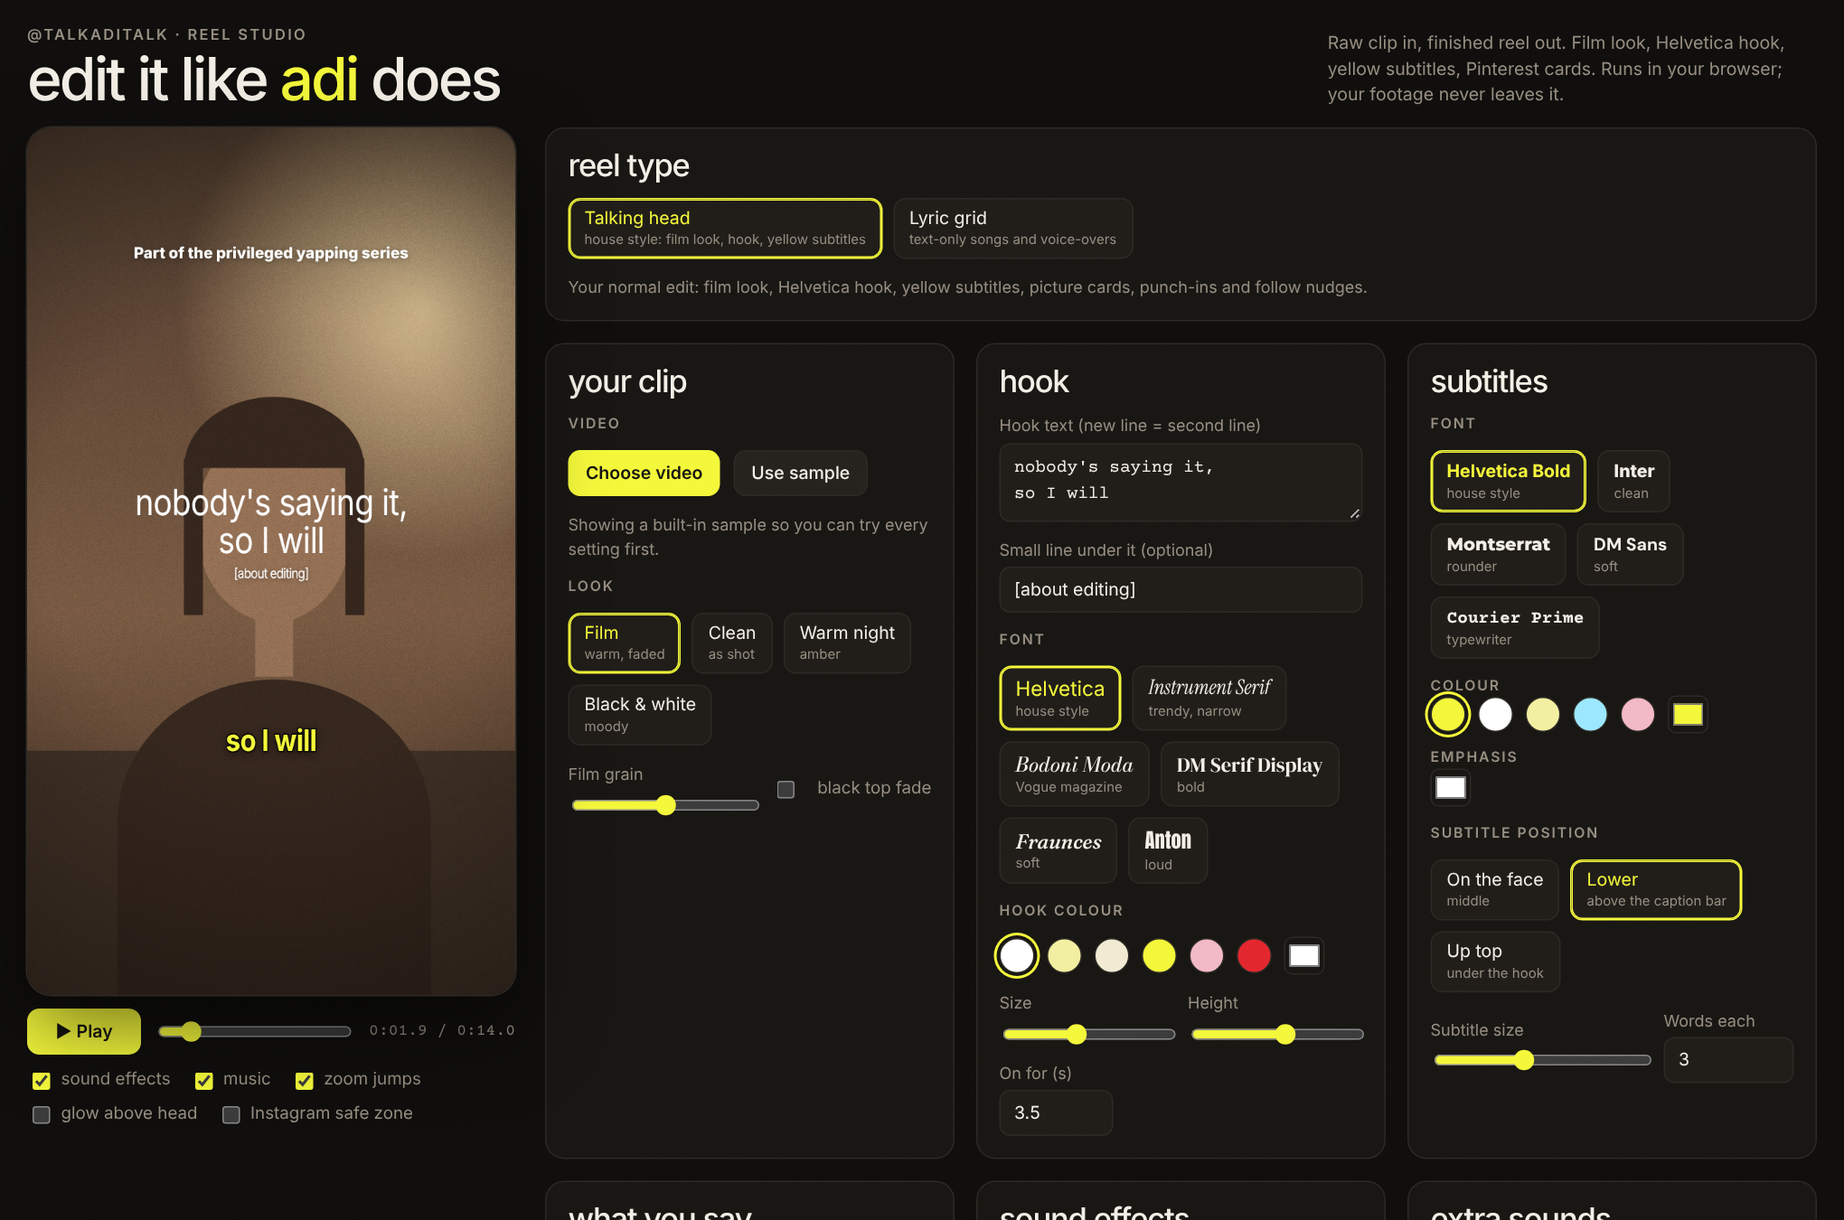
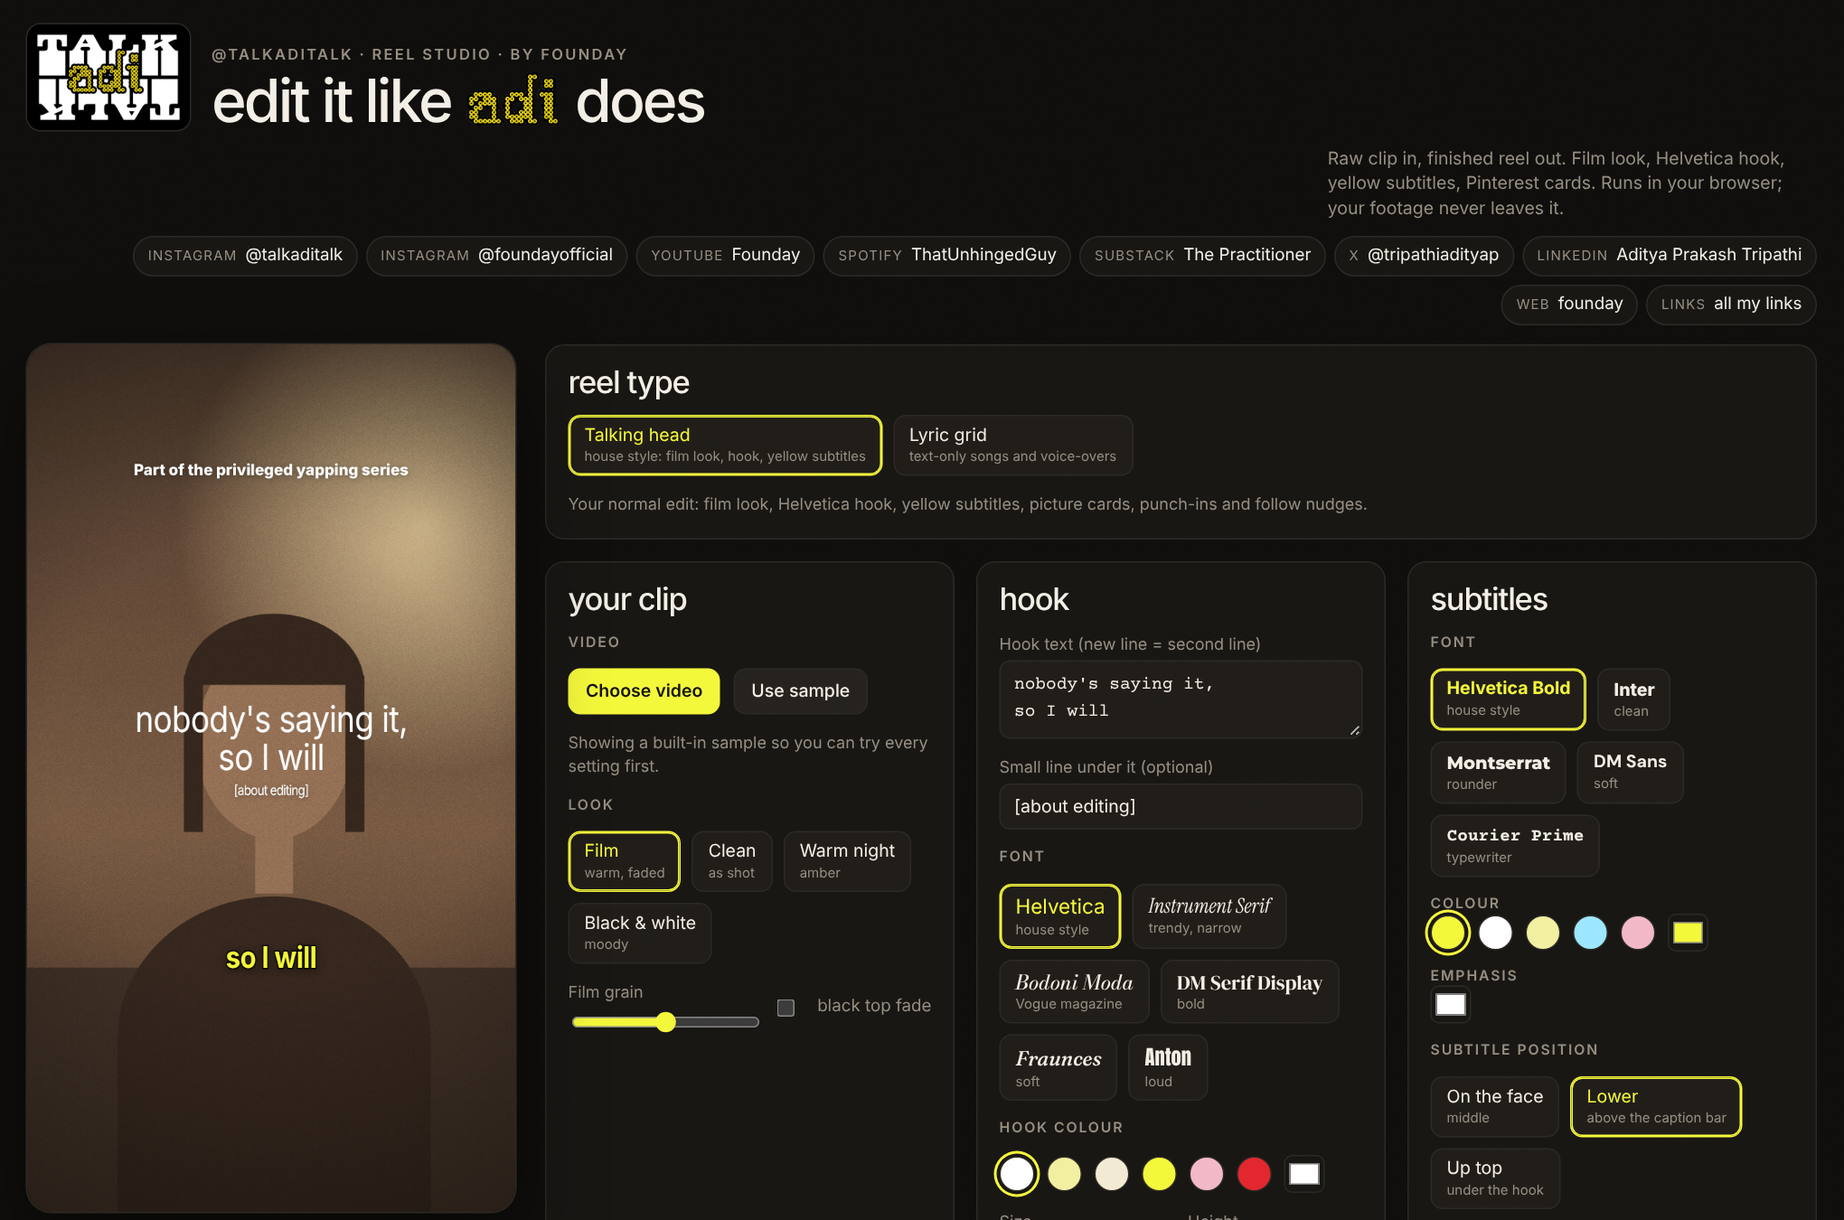
Add Founday and talkaditalk brand kit, handles and links
- talk adi talk logo and handle links in the header, dotted adi mark in
  the headline
- My logos row to drop talkaditalk, adi, Founday, ThatUnhingedGuy and
  The Practitioner logos into a reel; optional handle watermark
- Founday footer with show logos and every link; tag prompt on export
- Share preview tags and favicon; README brand kit and follow section

Claude-Session: https://claude.ai/code/session_01YSztzySygF1Q2ZiUH28WtS

diff --git a/index.html b/index.html
@@ -4,6 +4,14 @@
 <meta charset="utf-8">
 <meta name="viewport" content="width=device-width,initial-scale=1,viewport-fit=cover">
 <title>talkaditalk Reel Studio</title>
+<meta name="description" content="Edit Instagram reels in your browser in the @talkaditalk style: film look, Helvetica hook, yellow subtitles, lyric grids, Pinterest cards. By Founday.">
+<meta property="og:title" content="talkaditalk Reel Studio">
+<meta property="og:description" content="Raw clip in, finished reel out. Edit reels in your browser in the @talkaditalk style. By Founday.">
+<meta property="og:image" content="https://tripathiadityap.github.io/claudevideoeditor/docs/reel-talking-head.png">
+<meta property="og:url" content="https://tripathiadityap.github.io/claudevideoeditor/">
+<meta name="twitter:card" content="summary_large_image">
+<meta name="twitter:creator" content="@tripathiadityap">
+<link rel="icon" href="assets/talkaditalk-mark.png">
 <meta name="claude:viewport-fit-sides" content="cover">
 <link rel="preconnect" href="https://fonts.googleapis.com">
 <link rel="preconnect" href="https://fonts.gstatic.com" crossorigin>
@@ -30,6 +38,7 @@ body::after{content:"";position:fixed;inset:0;pointer-events:none;z-index:50;opa
 header{display:flex;align-items:flex-end;justify-content:space-between;gap:12px;flex-wrap:wrap;max-width:1320px;margin:0 auto 14px}
 header h1{font:500 44px/0.95 var(--display);margin:0;letter-spacing:-.045em;text-transform:lowercase}
 header h1 em{font-style:normal;color:var(--lemon)}
+header h1 img.adi{height:.92em;width:auto;vertical-align:-0.08em;margin:0 .04em}
 .eyebrow{font:600 11px var(--body);letter-spacing:.14em;text-transform:uppercase;color:var(--muted);margin:0 0 6px}
 .eyebrow a{color:inherit;text-decoration:none}
 .eyebrow a:hover{color:var(--lemon)}
@@ -100,6 +109,26 @@ textarea{font:13px/1.5 var(--mono);resize:vertical;min-height:90px}
 .out video{width:100%;max-width:260px;border-radius:10px;display:block}
 .status{font-size:12.5px;min-height:18px}
 .tapbig{font-size:16px;padding:14px;width:100%}
+.brandrow{display:flex;align-items:flex-end;gap:16px}
+.brandrow .mark img{display:block;width:120px;height:auto;border-radius:10px;box-shadow:0 0 0 1px var(--line)}
+.hside{display:flex;flex-direction:column;gap:10px;align-items:flex-end;min-width:0}
+.handles{display:flex;flex-wrap:wrap;gap:6px;justify-content:flex-end}
+.handles a{display:inline-flex;align-items:baseline;gap:6px;padding:5px 10px;border:1px solid var(--line);border-radius:999px;color:var(--ink);text-decoration:none;font-size:12.5px;background:var(--card)}
+.handles a small{color:var(--muted);font-size:10px;letter-spacing:.08em;text-transform:uppercase}
+.handles a:hover{border-color:var(--lemon);color:var(--lemon)}
+.fbrand{display:flex;align-items:center;gap:14px;flex-wrap:wrap}
+.fbrand img{display:block;height:34px;width:auto}
+.shows{display:flex;align-items:center;gap:18px;flex-wrap:wrap}
+.shows img{display:block;height:26px;width:auto}
+.shows .prac{display:inline-flex;align-items:center;gap:8px;color:var(--ink)}
+.shows .prac img{height:30px;border-radius:6px}
+footer.brand .made{flex-basis:100%;margin:0}
+footer.brand .made a{color:var(--lemon)}
+.logos{display:flex;gap:10px;flex-wrap:wrap}
+.logos button{background:var(--card-2);border:1px solid var(--line);border-radius:10px;padding:8px 12px;cursor:pointer;display:flex;align-items:center;justify-content:center;height:58px}
+.logos button:hover{border-color:var(--lemon)}
+.logos img{max-height:40px;max-width:150px;display:block}
+@media (max-width:760px){.hside{align-items:flex-start}.handles{justify-content:flex-start}.brandrow .mark img{width:84px}}
 footer.brand{max-width:1320px;margin:34px auto 0;padding-top:18px;border-top:1px solid var(--line);display:flex;flex-wrap:wrap;gap:10px 28px;justify-content:space-between;align-items:baseline;color:var(--muted);font-size:12.5px}
 footer.brand b{color:var(--ink);font-weight:500;letter-spacing:-.02em;font-size:15px}
 footer.brand nav{display:flex;flex-wrap:wrap;gap:6px 16px}
@@ -111,11 +140,27 @@ footer.brand a:hover{color:var(--lemon)}
 </head>
 <body>
 <header>
-  <div>
-    <p class="eyebrow"><a href="https://www.instagram.com/talkaditalk/" target="_blank" rel="noopener">@talkaditalk</a> · reel studio</p>
-    <h1>edit it like <em>adi</em> does</h1>
+  <div class="brandrow">
+    <a href="https://www.instagram.com/talkaditalk/" target="_blank" rel="noopener" class="mark"><img src="assets/talkaditalk-mark.png" alt="talk adi talk logo" width="120" height="78"></a>
+    <div>
+      <p class="eyebrow"><a href="https://www.instagram.com/talkaditalk/" target="_blank" rel="noopener">@talkaditalk</a> · reel studio · by <a href="https://founday-sepia.vercel.app" target="_blank" rel="noopener">Founday</a></p>
+      <h1>edit it like <img class="adi" src="assets/adi-mark.png" alt="adi" width="88" height="52"> does</h1>
+    </div>
   </div>
-  <p>Raw clip in, finished reel out. Film look, Helvetica hook, yellow subtitles, Pinterest cards. Runs in your browser; your footage never leaves it.</p>
+  <div class="hside">
+    <p>Raw clip in, finished reel out. Film look, Helvetica hook, yellow subtitles, Pinterest cards. Runs in your browser; your footage never leaves it.</p>
+    <nav class="handles" aria-label="Follow">
+      <a href="https://www.instagram.com/talkaditalk/" target="_blank" rel="noopener"><small>Instagram</small>@talkaditalk</a>
+      <a href="https://www.instagram.com/foundayofficial/" target="_blank" rel="noopener"><small>Instagram</small>@foundayofficial</a>
+      <a href="https://www.youtube.com/@foundayoffical" target="_blank" rel="noopener"><small>YouTube</small>Founday</a>
+      <a href="https://open.spotify.com/show/1DZXqmsDyH2FdJOeBdCoT6" target="_blank" rel="noopener"><small>Spotify</small>ThatUnhingedGuy</a>
+      <a href="https://practitionerhq.substack.com" target="_blank" rel="noopener"><small>Substack</small>The Practitioner</a>
+      <a href="https://x.com/tripathiadityap" target="_blank" rel="noopener"><small>X</small>@tripathiadityap</a>
+      <a href="https://www.linkedin.com/in/tripathiadityaprakash/" target="_blank" rel="noopener"><small>LinkedIn</small>Aditya Prakash Tripathi</a>
+      <a href="https://founday-sepia.vercel.app" target="_blank" rel="noopener"><small>Web</small>founday</a>
+      <a href="https://founday-sepia.vercel.app/links" target="_blank" rel="noopener"><small>Links</small>all my links</a>
+    </nav>
+  </div>
 </header>
 
 <div class="wrap">
@@ -296,6 +341,15 @@ footer.brand a:hover{color:var(--lemon)}
     <section class="card wide">
       <h2>Pictures in the reel</h2>
       <p class="note">Add pictures, then tap one to set when it shows and how. Drag a picture on the preview to move it.</p>
+      <p class="lbl">My logos</p>
+      <div class="logos" id="logoRow">
+        <button type="button" data-logo="assets/talkaditalk-mark.png" data-card="1" aria-label="Add talkaditalk logo"><img src="assets/talkaditalk-mark.png" alt=""></button>
+        <button type="button" data-logo="assets/adi-mark.png" aria-label="Add the adi mark"><img src="assets/adi-mark.png" alt=""></button>
+        <button type="button" data-logo="assets/founday-wordmark-white.png" aria-label="Add Founday logo"><img src="assets/founday-wordmark-white.png" alt=""></button>
+        <button type="button" data-logo="assets/thatunhingedguy-logo.png" aria-label="Add ThatUnhingedGuy logo"><img src="assets/thatunhingedguy-logo.png" alt=""></button>
+        <button type="button" data-logo="assets/practitioner-logo.webp" data-card="1" aria-label="Add The Practitioner logo"><img src="assets/practitioner-logo.webp" alt=""></button>
+      </div>
+      <p class="lbl">In this reel</p>
       <div class="pics" id="pics"></div>
       <input type="file" id="picIn" accept="image/*" multiple hidden>
       <div class="editor" id="picEd" hidden>
@@ -314,6 +368,8 @@ footer.brand a:hover{color:var(--lemon)}
       <h2>Extras</h2>
       <label class="toggles"><input type="checkbox" id="xFollow"> follow nudges</label>
       <div class="field"><span>Follow text</span><input type="text" id="xFollowText"></div>
+      <label class="toggles"><input type="checkbox" id="xMark"> handle watermark on the reel</label>
+      <div class="field"><span>Watermark text</span><input type="text" id="xMarkText"></div>
       <label class="toggles"><input type="checkbox" id="xSeries"> series label at the top</label>
       <div class="field"><span>Series text</span><input type="text" id="xSeriesText"></div>
     </section>
@@ -333,16 +389,27 @@ footer.brand a:hover{color:var(--lemon)}
 </div>
 
 <footer class="brand">
-  <div><b>Founday</b> &nbsp;Raw Ambition. Unfiltered Mindset. Creative Agency.</div>
+  <div class="fbrand">
+    <a href="https://founday-sepia.vercel.app" target="_blank" rel="noopener"><img src="assets/founday-wordmark-white.png" alt="Founday" width="132" height="48"></a>
+    <span>Raw Ambition. Unfiltered Mindset. Creative Agency.</span>
+  </div>
+  <div class="shows">
+    <a href="https://open.spotify.com/show/1DZXqmsDyH2FdJOeBdCoT6" target="_blank" rel="noopener" title="ThatUnhingedGuy on Spotify"><img src="assets/thatunhingedguy-logo.png" alt="ThatUnhingedGuy" width="180" height="39"></a>
+    <a href="https://practitionerhq.substack.com" target="_blank" rel="noopener" title="The Practitioner on Substack" class="prac"><img src="assets/practitioner-logo.webp" alt="The Practitioner" width="34" height="34"><span>The Practitioner</span></a>
+  </div>
   <nav aria-label="Founday links">
     <a href="https://www.instagram.com/talkaditalk/" target="_blank" rel="noopener">@talkaditalk</a>
     <a href="https://www.instagram.com/foundayofficial/" target="_blank" rel="noopener">@foundayofficial</a>
     <a href="https://open.spotify.com/show/1DZXqmsDyH2FdJOeBdCoT6" target="_blank" rel="noopener">ThatUnhingedGuy on Spotify</a>
-    <a href="https://www.youtube.com/playlist?list=PLBBt2c2haxM8" target="_blank" rel="noopener">on YouTube</a>
+    <a href="https://www.youtube.com/playlist?list=PLBBt2c2haxM8" target="_blank" rel="noopener">ThatUnhingedGuy on YouTube</a>
+    <a href="https://www.youtube.com/@foundayoffical" target="_blank" rel="noopener">Founday on YouTube</a>
     <a href="https://practitionerhq.substack.com" target="_blank" rel="noopener">The Practitioner</a>
-    <a href="https://founday-sepia.vercel.app" target="_blank" rel="noopener">founday</a>
+    <a href="https://x.com/tripathiadityap" target="_blank" rel="noopener">X</a>
+    <a href="https://www.linkedin.com/in/tripathiadityaprakash/" target="_blank" rel="noopener">LinkedIn</a>
+    <a href="https://founday-sepia.vercel.app/links" target="_blank" rel="noopener">all links</a>
     <a href="https://github.com/tripathiadityap/claudevideoeditor" target="_blank" rel="noopener">source</a>
   </nav>
+  <p class="made">Made by <a href="https://www.instagram.com/talkaditalk/" target="_blank" rel="noopener">Adi</a>. Post something you made here? Tag <a href="https://www.instagram.com/talkaditalk/" target="_blank" rel="noopener">@talkaditalk</a>.</p>
 </footer>
 
 <video id="vid" playsinline preload="auto" hidden></video>
@@ -395,7 +462,7 @@ const DEFAULTS = {
   subText:"0:00.4 nobody's saying it\n0:01.6 so I will\n0:03.0 editing is the\n0:04.0 *real* skill\n0:05.2 not the camera\n0:06.4 not the gear\n0:07.6 it's the cuts\n0:08.8 you *keep*\n0:10.0 and the ones\n0:11.0 you *kill*\n0:12.2 follow for more\n0:13.6 -",
   sfx:{kind:"double", vol:.6, emph:"pop", full:"whoosh", word:"none"},
   music:{vol:.25, duck:true},
-  x:{follow:true, followText:"+ Follow @talkaditalk", series:true, seriesText:"Part of the privileged yapping series"},
+  x:{follow:true, followText:"+ Follow @talkaditalk", mark:false, markText:"@talkaditalk", series:true, seriesText:"Part of the privileged yapping series"},
   t:{sfx:true, music:true, zoom:true, glow:false, safe:false}
 };
 let S = structuredClone(DEFAULTS);
@@ -596,8 +663,9 @@ function drawPics(t,layer){
       const r=picRect(p,t);
       ctx.save(); ctx.globalAlpha=r.al; ctx.translate(r.x,r.y); ctx.rotate(r.rot); ctx.scale(r.sc,r.sc);
       ctx.shadowColor="rgba(0,0,0,.4)"; ctx.shadowBlur=36; ctx.shadowOffsetY=12;
-      rr(ctx,-r.w/2,-r.h/2,r.w,r.h,14); ctx.fillStyle="#000"; ctx.fill(); ctx.shadowColor="transparent";
-      ctx.clip(); ctx.drawImage(p.img,-r.w/2,-r.h/2,r.w,r.h);
+      if (p.logo){ ctx.shadowColor="rgba(0,0,0,.45)"; ctx.shadowBlur=18; ctx.shadowOffsetY=4; ctx.drawImage(p.img,-r.w/2,-r.h/2,r.w,r.h); }
+      else { rr(ctx,-r.w/2,-r.h/2,r.w,r.h,14); ctx.fillStyle="#000"; ctx.fill(); ctx.shadowColor="transparent";
+      ctx.clip(); ctx.drawImage(p.img,-r.w/2,-r.h/2,r.w,r.h); }
       ctx.restore();
       hitRects.push({p,x:r.x,y:r.y,w:r.w,h:r.h});
       if (p===selPic && !exporting){ ctx.save(); ctx.translate(r.x,r.y); ctx.rotate(r.rot); ctx.setLineDash([14,10]); ctx.strokeStyle="rgba(255,255,255,.85)"; ctx.lineWidth=3; ctx.strokeRect(-r.w/2-8,-r.h/2-8,r.w+16,r.h+16); ctx.restore(); }
@@ -637,7 +705,9 @@ function drawBox(text,y,yellow){
   rr(ctx,540-w/2,y-34,w,68,12); ctx.fillStyle=yellow?"#F4F83A":"rgba(255,255,255,.95)"; ctx.fill();
   ctx.fillStyle="#141414"; ctx.textAlign="center"; ctx.textBaseline="middle"; ctx.fillText(text,540,y+2); ctx.restore();
 }
+function drawMark(){ if (!S.x.mark || !S.x.markText) return; ctx.save(); ctx.globalAlpha=.6; ctx.font="600 30px \"Helvetica Neue\",Helvetica,Arial,sans-serif"; ctx.textAlign="right"; ctx.fillStyle=(S.mode==="lyric"&&S.ly.bg==="white")?"#111":"#fff"; ctx.shadowColor="rgba(0,0,0,.35)"; ctx.shadowBlur=6; ctx.fillText(S.x.markText,1030,300); ctx.restore(); }
 function drawExtras(t){
+  drawMark();
   const D=dur();
   if (S.x.series && S.x.seriesText && t<4){ const a=Math.min(1,t/0.3, (4-t)/0.3); ctx.save(); ctx.globalAlpha=a; textLine(S.x.seriesText,540,290,SUB_FONTS.inter,34,"#FFFFFF",{shadow:10,maxW:900}); ctx.restore(); }
   if (S.x.follow && S.x.followText && D>6){
@@ -725,6 +795,7 @@ function renderLyric(){
   ctx.setTransform(SC,0,0,SC,0,0);
   drawLyricBg(t);
   drawLyrics(t);
+  drawMark();
   if (S.ly.bg!=="white") drawGrain(t);
   if (S.t.safe && !exporting) drawSafe();
 }
@@ -818,6 +889,7 @@ function buildUI(){
   [["sfxEmph","emph"],["sfxFull","full"],["sfxWord","word"]].forEach(([id,k])=>{ $(id).onchange=()=>{ S.sfx[k]=$(id).value; ensureAudio(); playSfx(S.sfx[k]); save(); }; });
   bindRange("musVol",()=>S.music.vol,v=>S.music.vol=v); bindCheck("musDuck",()=>S.music.duck,v=>S.music.duck=v);
   bindCheck("xFollow",()=>S.x.follow,v=>S.x.follow=v); bindText("xFollowText",()=>S.x.followText,v=>S.x.followText=v);
+  bindCheck("xMark",()=>S.x.mark,v=>S.x.mark=v); bindText("xMarkText",()=>S.x.markText,v=>S.x.markText=v);
   bindCheck("xSeries",()=>S.x.series,v=>S.x.series=v); bindText("xSeriesText",()=>S.x.seriesText,v=>S.x.seriesText=v);
   bindCheck("tSfx",()=>S.t.sfx,v=>S.t.sfx=v); bindCheck("tMusic",()=>S.t.music,v=>S.t.music=v);
   bindCheck("tZoom",()=>S.t.zoom,v=>S.t.zoom=v); bindCheck("tGlow",()=>S.t.glow,v=>S.t.glow=v); bindCheck("tSafe",()=>S.t.safe,v=>S.t.safe=v);
@@ -946,6 +1018,12 @@ $("libIn").onchange=async e=>{
   $("libNote").textContent=`Saved ${ok} picture${ok===1?"":"s"}${fail?`, ${fail} couldn't be read`:""}.`;
 };
 $("pinAdd").onclick=()=>{ const u=$("pinUrl").value.trim(); if (/^https?:\/\//.test(u)){ addPicFromUrl(u); $("pinUrl").value=""; } else $("pinNote").textContent="Paste a full image link that starts with https://"; };
+
+document.querySelectorAll("#logoRow button").forEach(b=>b.onclick=()=>{
+  const src=b.dataset.logo, img=new Image();
+  img.onload=()=>{ const p={id:picId++,img,src,t0:+Math.min(now(),Math.max(0,dur()-1)).toFixed(1),dur:2.4,mode:"card",anim:"pop",sfx:"default",x:540,y:520,w:b.dataset.card?300:520,rot:0,logo:!b.dataset.card}; pics.push(p); selectPic(p); };
+  img.src=src;
+});
 
 /* lyric items: words with phrase breaks */
 function lyricItems(text){
@@ -1081,8 +1159,8 @@ async function onRecStop(){
   const type=(recMime||"video/webm").split(";")[0]; const ext=type.includes("mp4")?"mp4":"webm";
   const blob=new Blob(chunksRec,{type}); const url=URL.createObjectURL(blob);
   const v=document.createElement("video"); v.src=url; v.controls=true; v.playsInline=true; $("expOut").appendChild(v);
-  const name="reel-"+new Date().toISOString().slice(0,10)+"."+ext;
-  $("expStatus").textContent=`Done · ${(blob.size/1048576).toFixed(1)} MB ${ext.toUpperCase()}.`;
+  const name="talkaditalk-reel-"+new Date().toISOString().slice(0,10)+"."+ext;
+  $("expStatus").textContent=`Done · ${(blob.size/1048576).toFixed(1)} MB ${ext.toUpperCase()}. Posting it? Tag @talkaditalk so I can see it.`;
   const btn=document.createElement("button"); btn.className="btn primary"; btn.textContent="Save "+name; btn.style.marginTop="8px";
   btn.onclick=async()=>{
     const dl=window.claude?.use ? await window.claude.use("downloads").catch(()=>null) : null;

diff --git a/README.md b/README.md
@@ -1,8 +1,12 @@
+<p align="center"><a href="https://www.instagram.com/talkaditalk/"><img src="assets/talkaditalk-mark.png" width="200" alt="talk adi talk"></a></p>
+
 # talkaditalk Reel Studio
+
+**[Open the editor](https://tripathiadityap.github.io/claudevideoeditor/)** · [@talkaditalk](https://www.instagram.com/talkaditalk/) · [@foundayofficial](https://www.instagram.com/foundayofficial/) · [Founday](https://founday-sepia.vercel.app)
 
 **Edit Instagram reels in your browser.** Drop in a raw clip, choose the hook, subtitles, look, sound effects, music and pictures, then export a finished 9:16 reel. You don't install anything, make an account or upload your footage anywhere.
 
-Built by [@talkaditalk](https://www.instagram.com/talkaditalk/) with Claude, from the same house style I use for my own reels.
+Built by Adi ([@talkaditalk](https://www.instagram.com/talkaditalk/)) with Claude, from the same house style I use for my own reels. Made something with it? Tag [@talkaditalk](https://www.instagram.com/talkaditalk/) when you post.
 
 ![Reel Studio editor](docs/editor.png)
 
@@ -68,6 +72,10 @@ The editor shows pins from [my board](https://in.pinterest.com/tripathiadityap/t
 - Pins are linked, not copied. To hide one from the synced list, put its id in `pinterest-exclude.txt`.
 - To use your own board, change `BOARD` in `index.html` and `PINTEREST_BOARD` in the workflow.
 
+## Brand kit
+
+Your logos are built into the editor under **Pictures → My logos**: the talk adi talk logo, the dotted adi mark, Founday, ThatUnhingedGuy and The Practitioner. Tap one to drop it into the reel. In **Extras** there's also an optional handle watermark (`@talkaditalk` by default). The files live in `assets/`.
+
 ## Export
 
 **Export reel** plays the reel once from the start and records it at 720×1280 with all the sound. Chrome and Safari save MP4. Browsers that only record WebM need a quick convert before posting from the Instagram app.
@@ -84,3 +92,21 @@ Your settings are saved in the browser. Videos, pictures and your own sounds are
 | `scripts/sync-pinterest.mjs` | The sync script (Node 18+, no dependencies) |
 | `.github/workflows/sync-pinterest.yml` | Runs the sync daily |
 | `docs/` | Screenshots for this page |
+| `assets/` | Logos: talk adi talk, adi mark, Founday, ThatUnhingedGuy, The Practitioner |
+
+## Follow
+
+<p>
+  <a href="https://founday-sepia.vercel.app"><img src="assets/founday-wordmark-white.png" height="36" alt="Founday"></a>
+  &nbsp;&nbsp;
+  <a href="https://open.spotify.com/show/1DZXqmsDyH2FdJOeBdCoT6"><img src="assets/thatunhingedguy-logo.png" height="28" alt="ThatUnhingedGuy"></a>
+</p>
+
+- Instagram: [@talkaditalk](https://www.instagram.com/talkaditalk/) and [@foundayofficial](https://www.instagram.com/foundayofficial/)
+- ThatUnhingedGuy: [Spotify](https://open.spotify.com/show/1DZXqmsDyH2FdJOeBdCoT6) and [YouTube](https://www.youtube.com/playlist?list=PLBBt2c2haxM8)
+- Founday on [YouTube](https://www.youtube.com/@foundayoffical)
+- The Practitioner on [Substack](https://practitionerhq.substack.com)
+- X: [@tripathiadityap](https://x.com/tripathiadityap) · LinkedIn: [Aditya Prakash Tripathi](https://www.linkedin.com/in/tripathiadityaprakash/)
+- Founday: [site](https://founday-sepia.vercel.app) and [all links](https://founday-sepia.vercel.app/links)
+
+Founday: Raw Ambition. Unfiltered Mindset. Creative Agency.
